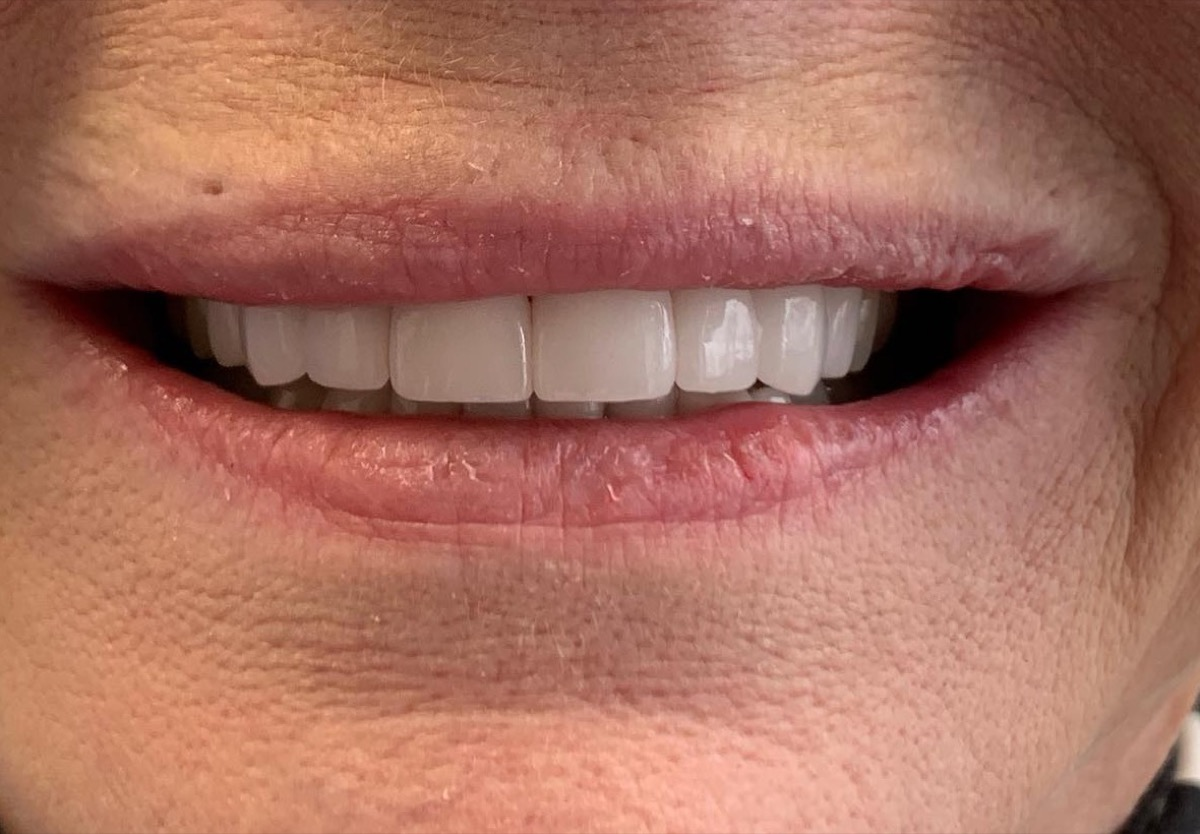
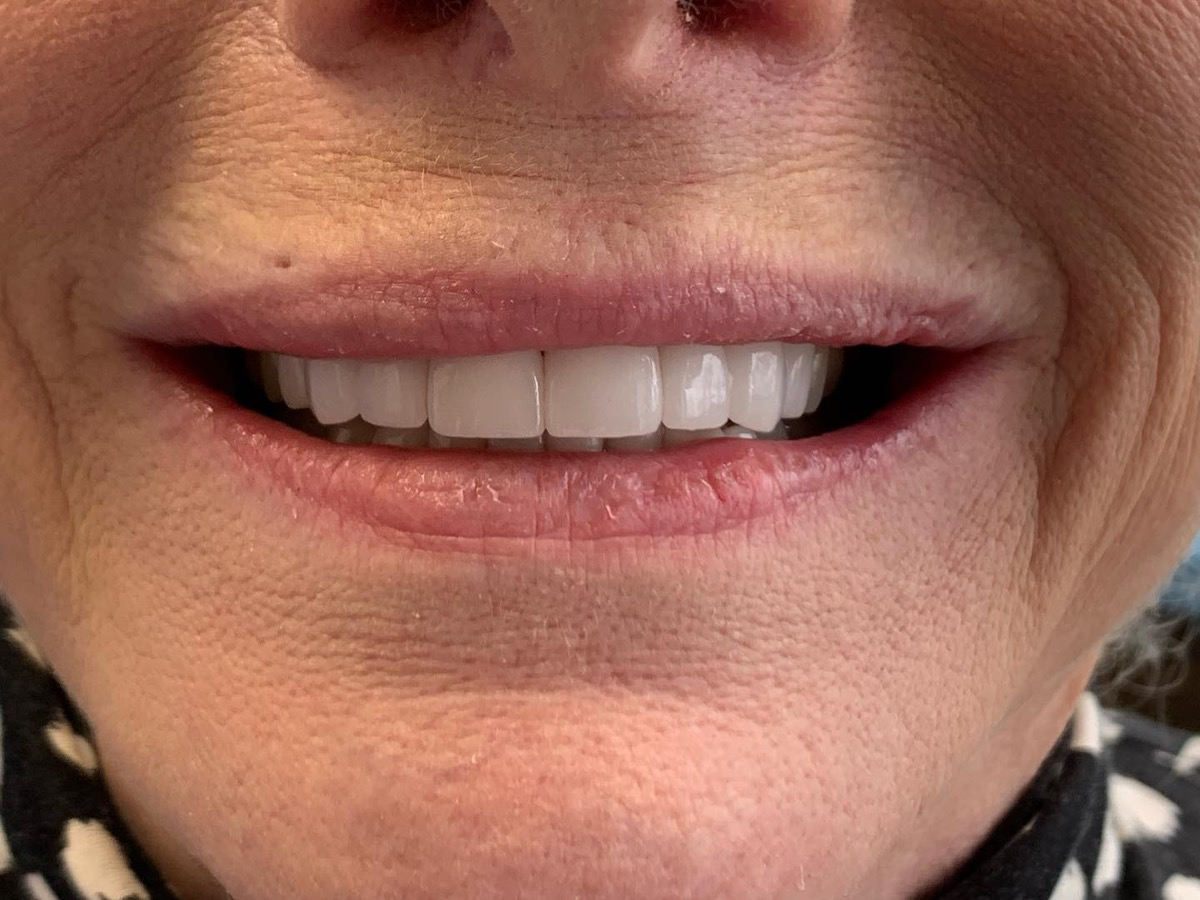
Restore smile photo to original composition
The earlier center-crop changed the framing and made the mouth look
stretched. Rebuilt from the original file: full composition, original
4:3 proportions, resized to 1200x900. Cache-busted the URL so visitors
get the corrected image.

diff --git a/services/crowns-bridges.html b/services/crowns-bridges.html
@@ -49,7 +49,7 @@
           <figcaption data-i18n="pg.caseCaption">Actual case from our lab</figcaption>
         </figure>
         <figure class="case-photo">
-          <img src="../assets/img/crowns-case-smile.jpg" alt="Patient's natural-looking smile after anterior crown restoration" width="1200" height="834" loading="lazy">
+          <img src="../assets/img/crowns-case-smile.jpg?v=2" alt="Patient's natural-looking smile after anterior crown restoration" width="1200" height="900" loading="lazy">
           <figcaption data-i18n="pg.caseCaption">Actual case from our lab</figcaption>
         </figure>
       </div>